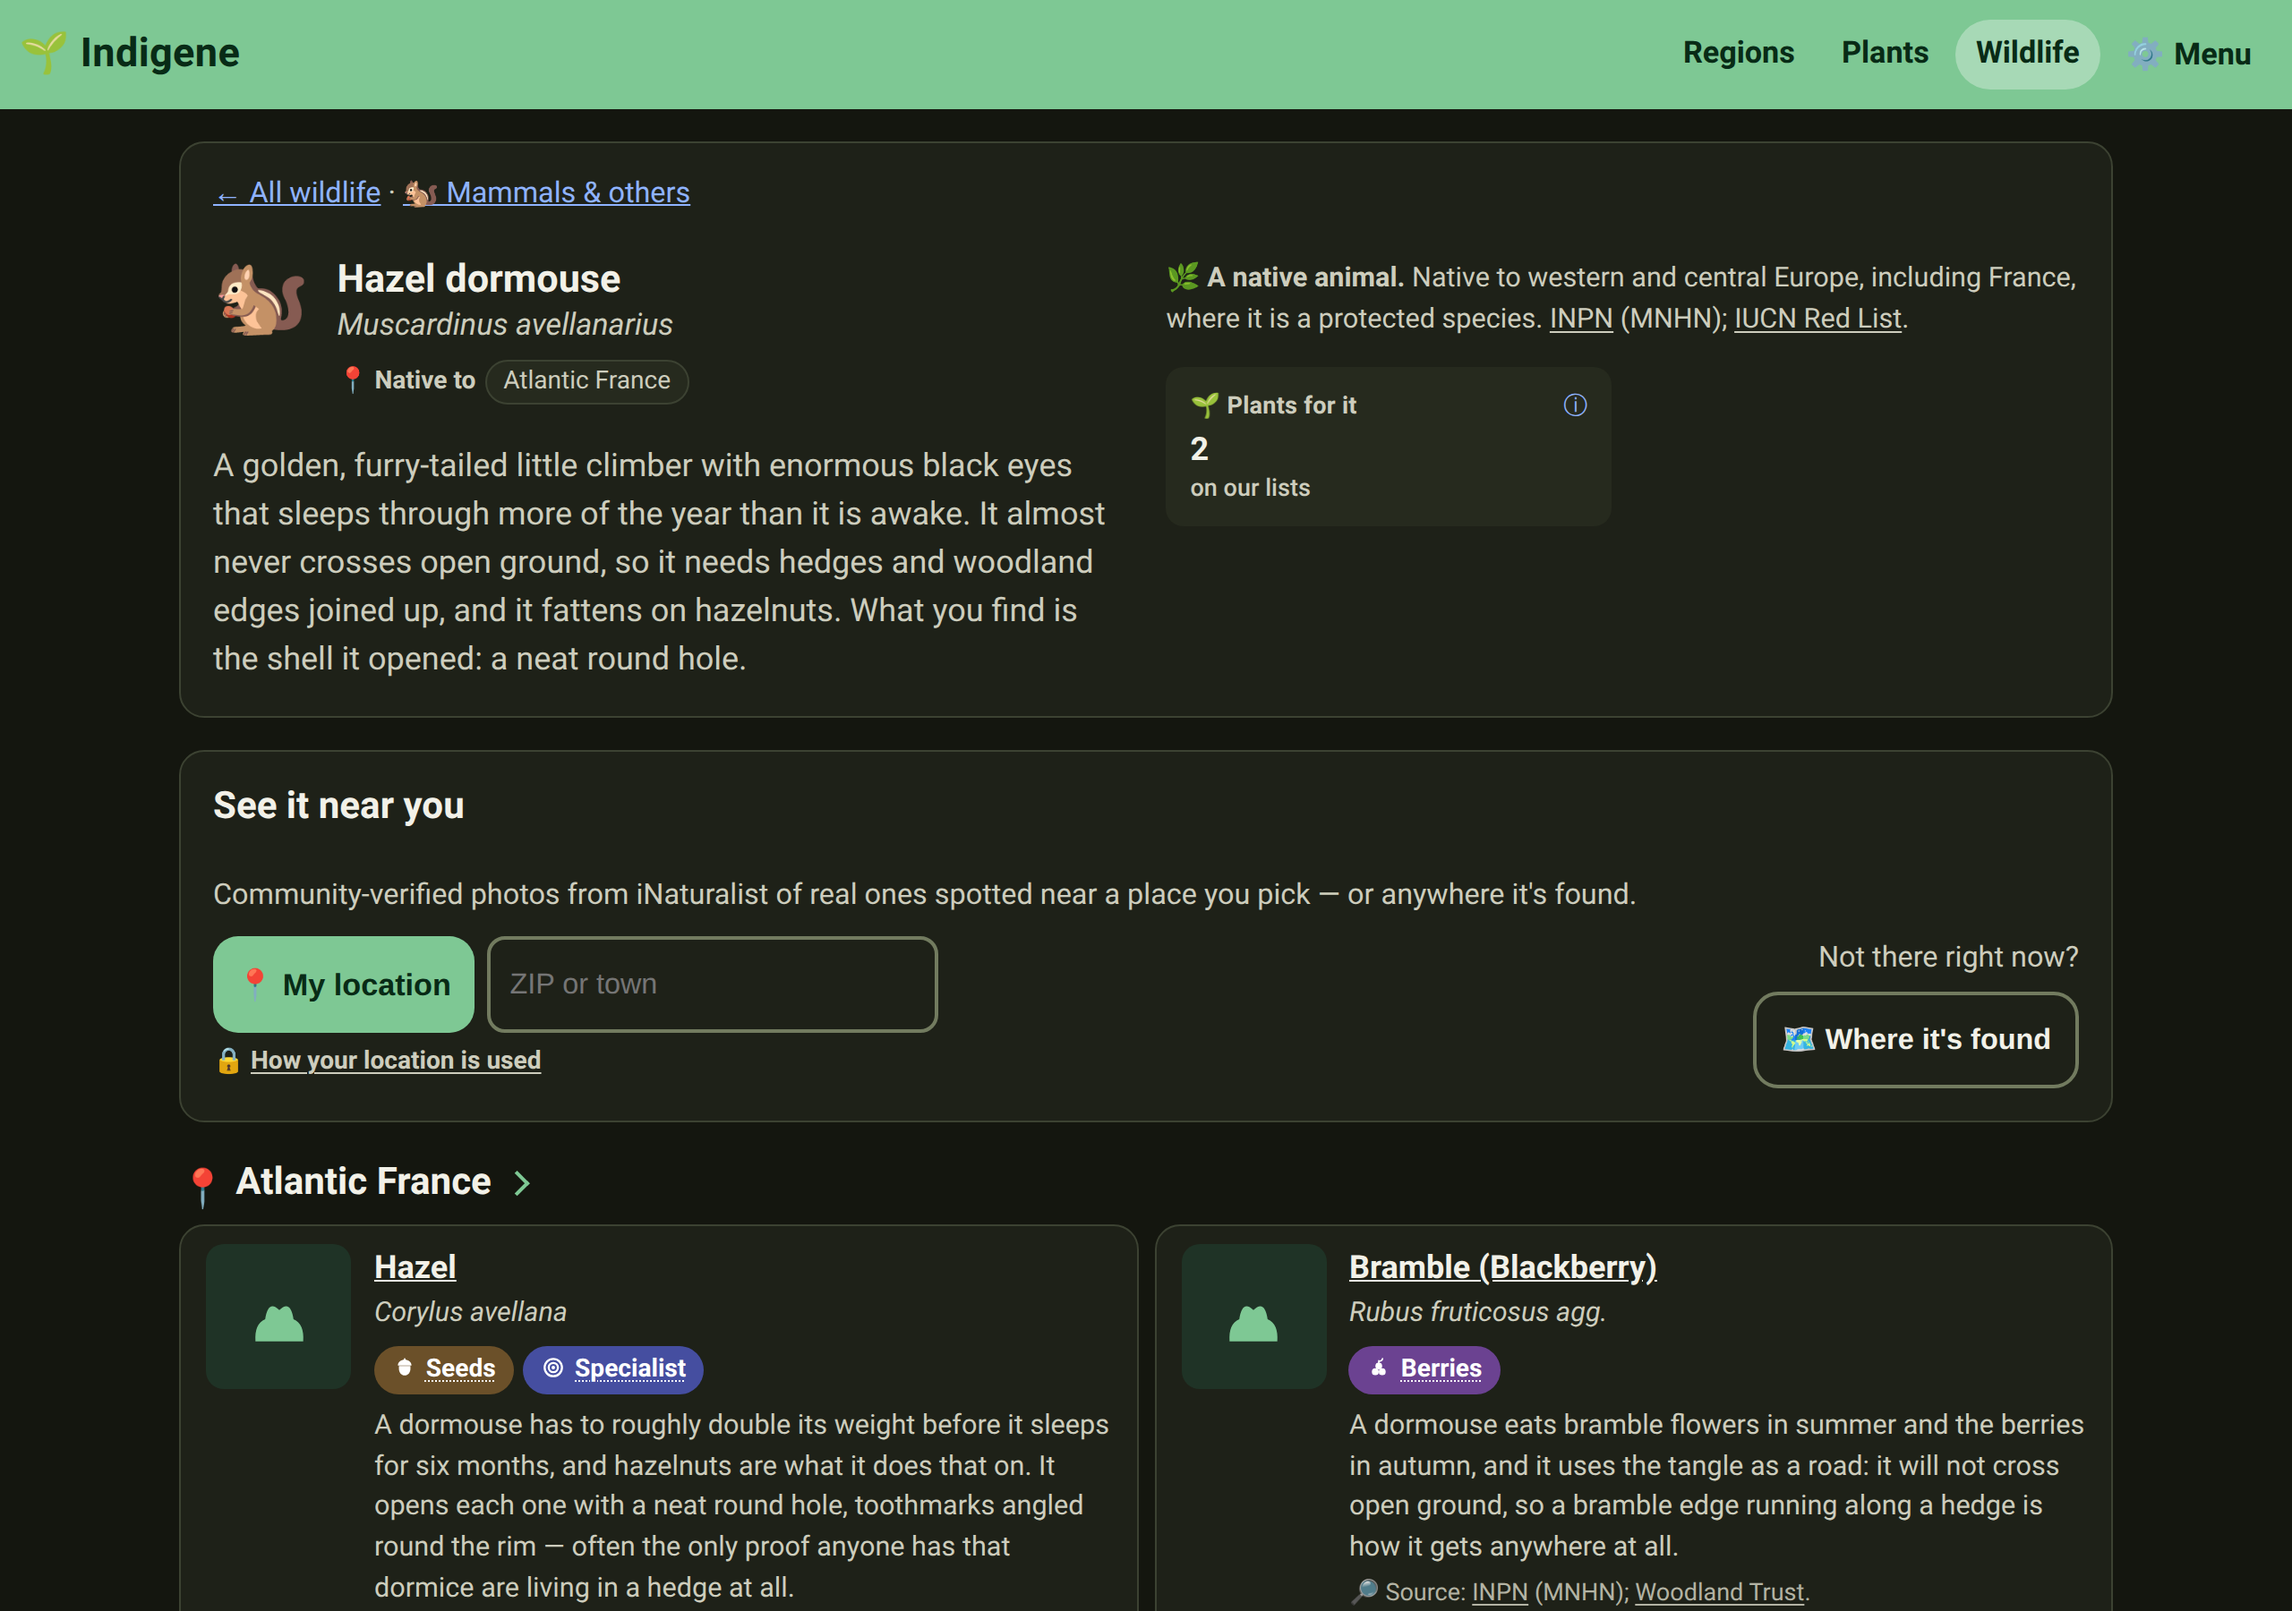
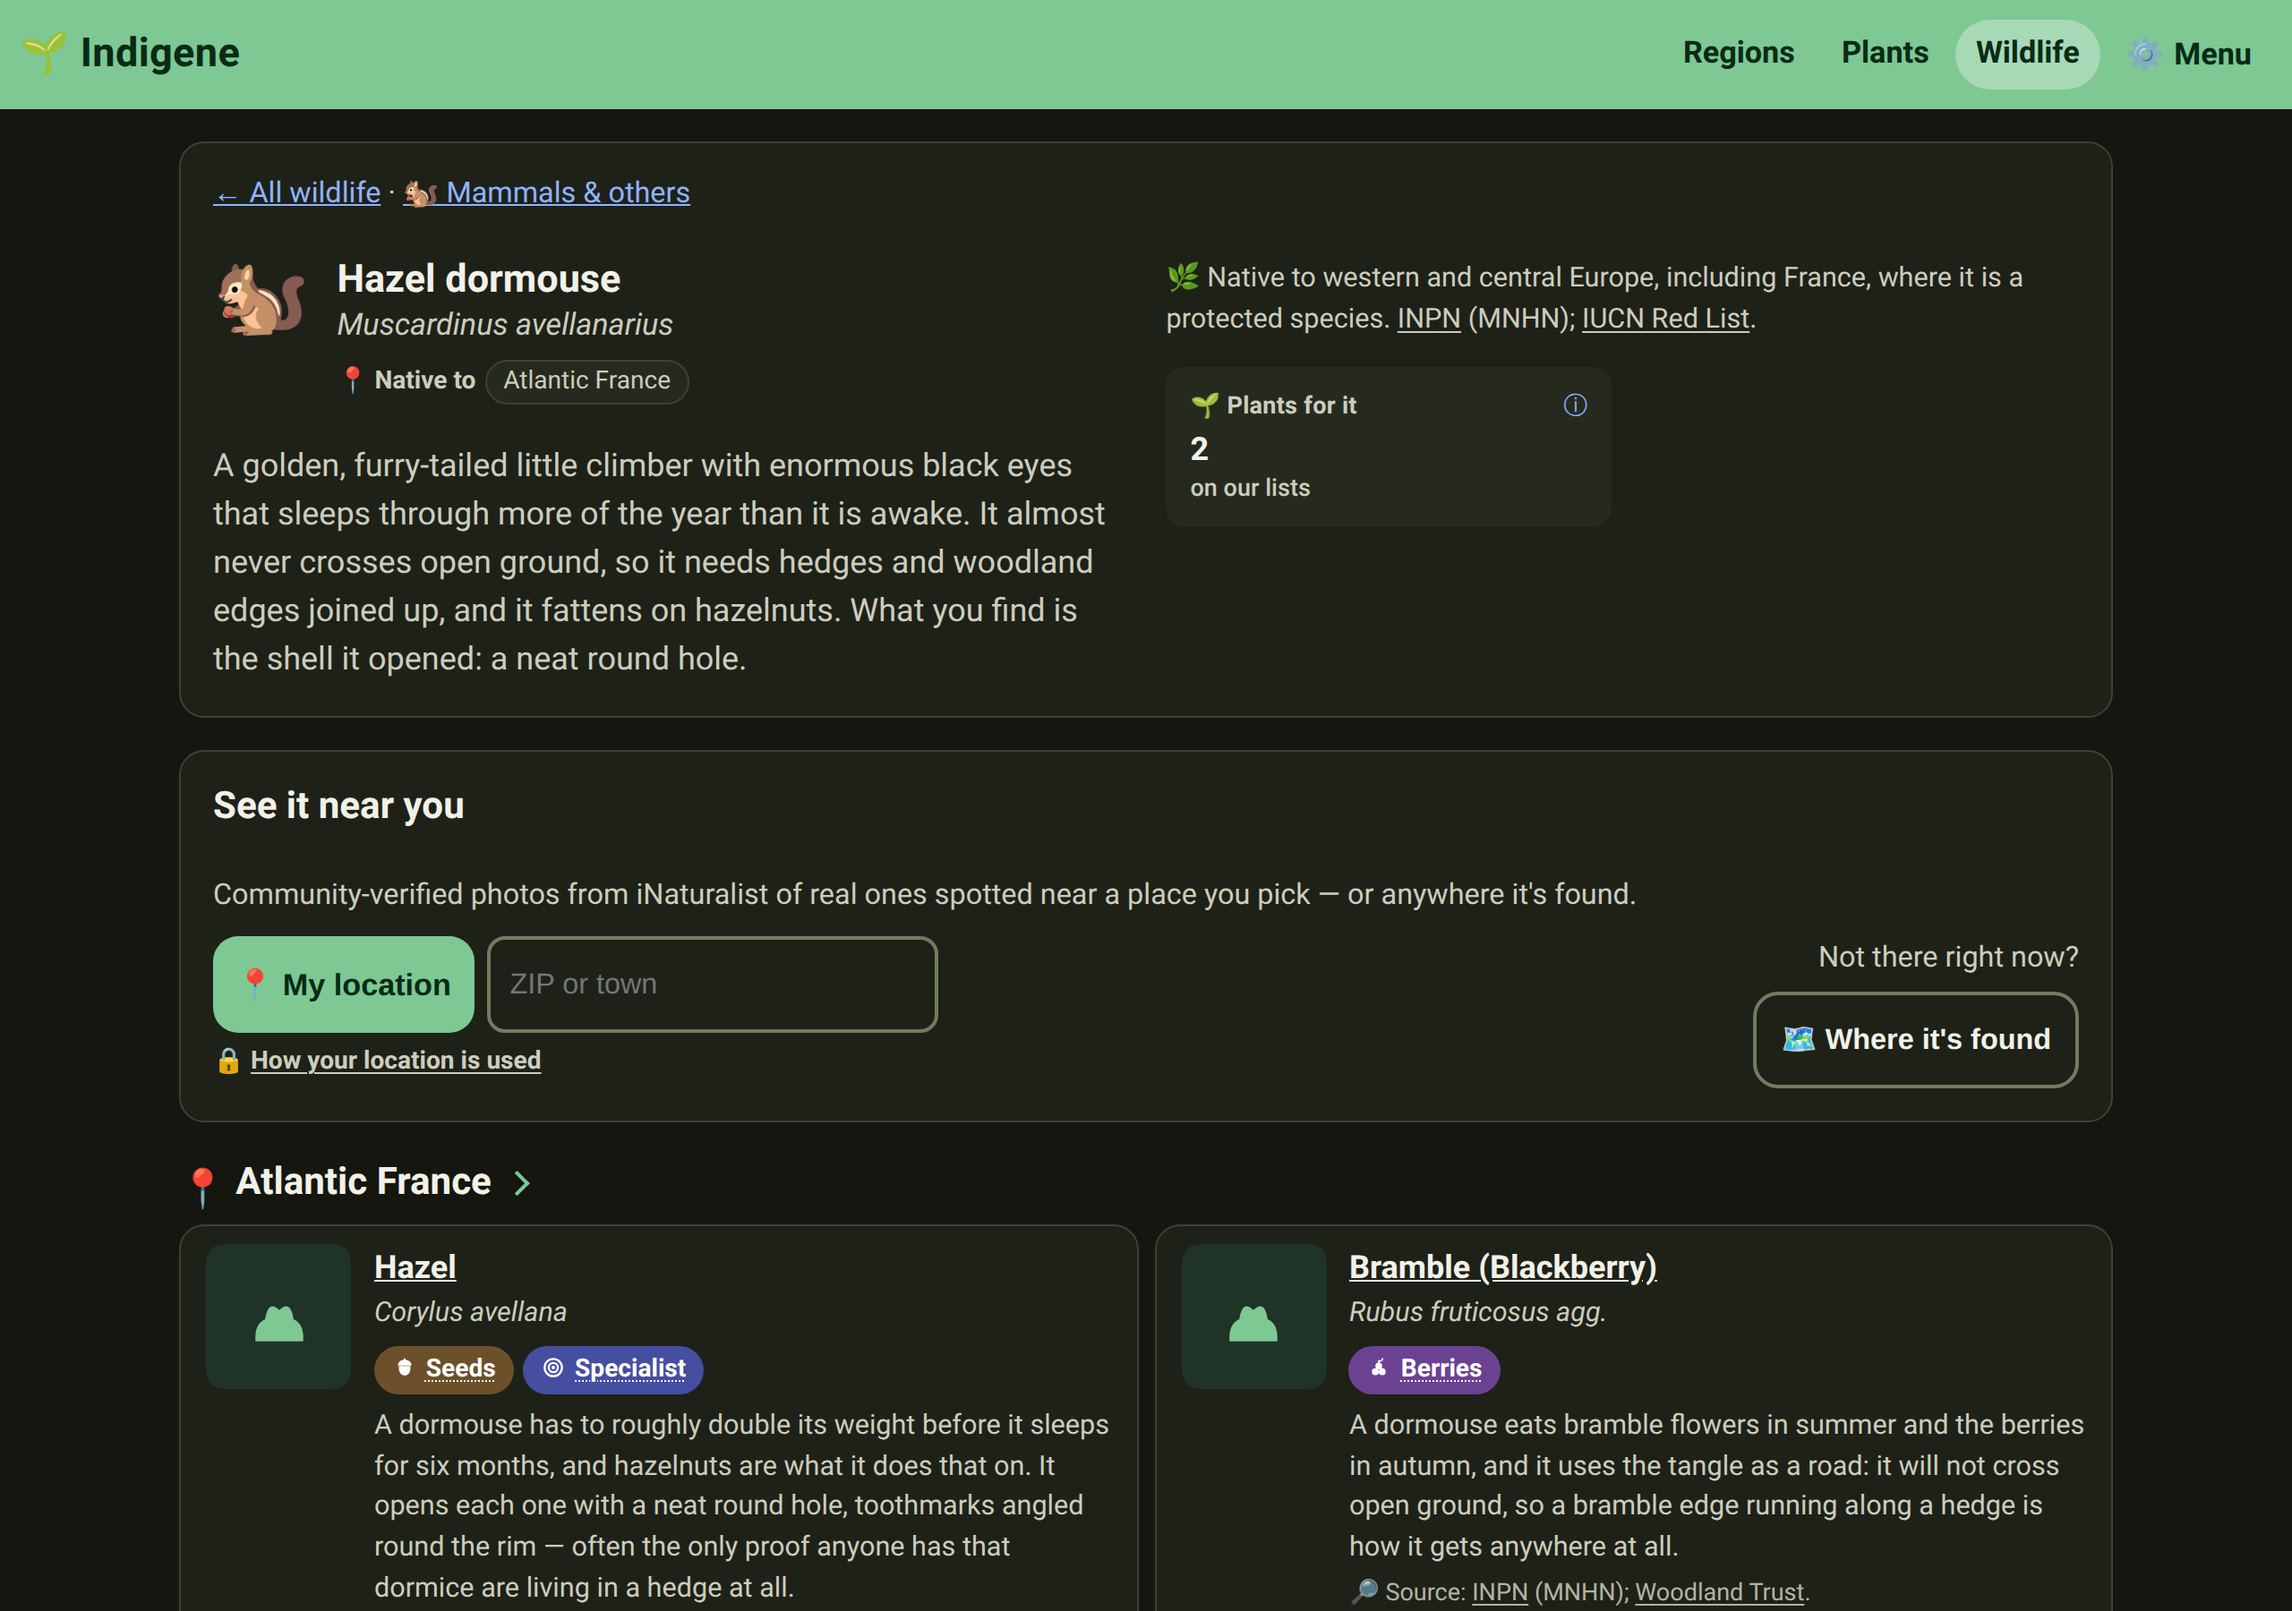
Drop "a native animal" — the pills opposite already said it
Every animal in the catalog is native (the index says so once, for all of
them), and the page names the regions it's native to in a row of pills
right across from this line. What isn't repeated anywhere is the rest of
the sentence: the range beyond our regions, and the authority behind it.
So the label goes and the sourced statement stays.

Claude-Session: https://claude.ai/code/session_01R2VcfAxqfXKMeK35Dgn1z4

Changed region(s): [[0.5, 0.1556, 0.9062, 0.2178]]

diff --git a/app/src/steps/wildlife.ts b/app/src/steps/wildlife.ts
@@ -558,11 +558,13 @@ export function renderWildlife(main: HTMLElement, param?: string): void {
         ]),
         el("div", { class: "plant-col" }, [
           el("div", { class: "plant-body plant-body-rest" }, [
-            // The native-status guarantee, sourced (authority names linked) — a native
-            // plant should be feeding a native animal, and we say where that comes from.
+            // Where it's native, and who says so (authority names linked). It
+            // used to open "A native animal." — which the 📍 pills opposite
+            // have already said, and the index says once for the whole
+            // catalog. What's left is the part that isn't repeated anywhere:
+            // the range beyond our regions, and its source.
             el("p", { class: "confidence wildlife-vouch" }, [
               el("span", { "aria-hidden": "true" }, "🌿 "),
-              el("strong", {}, t("wildlife.aNativeAnimal")),
               ...citation(w.nativeBasis),
             ]),
             speciesLink(w),

diff --git a/app/src/locales/fr.ts b/app/src/locales/fr.ts
@@ -1168,7 +1168,6 @@ export const fr: Dict = {
   "wildlife.regionPillTitle": "{region} — toute la faune que ses plantes indigènes font vivre",
   "wildlife.docTitle": "Les plantes indigènes qui font vivre {animal} — Indigene",
   "wildlife.allWildlife": "← Toute la faune",
-  "wildlife.aNativeAnimal": "Un animal indigène. ",
   "wildlife.ofThemHosts.one": ", dont {n} comme plante nourricière de ses chenilles — le lien le plus fort.",
   "wildlife.ofThemHosts.other": ", dont {n} comme plantes nourricières de ses chenilles — le lien le plus fort.",
   "wildlife.cantLiveWithout.one": "⭐ Il ne peut pas vivre sans cette plante. ",

diff --git a/app/src/locales/en.ts b/app/src/locales/en.ts
@@ -1156,7 +1156,6 @@ export const en = {
   "wildlife.regionPillTitle": "{region} — all the wildlife its natives support",
   "wildlife.docTitle": "Native plants that support {animal} — Indigene",
   "wildlife.allWildlife": "← All wildlife",
-  "wildlife.aNativeAnimal": "A native animal. ",
   "wildlife.ofThemHosts.one": ", {n} of them as a caterpillar host — the strongest tie.",
   "wildlife.ofThemHosts.other": ", {n} of them as caterpillar hosts — the strongest tie.",
   "wildlife.cantLiveWithout.one": "⭐ It can't live without this plant. ",

diff --git a/CHANGELOG.md b/CHANGELOG.md
@@ -48,6 +48,10 @@ subtitle on the What's new page.
   monarch](https://indigene.app/wildlife/monarch) shows how many of our natives
   feed it, how many raise its young, and how many it has no substitute for —
   the same tiles a plant's page has. Tap one for what it means.
+- **An animal's page no longer calls it "a native animal".** Every animal in
+  [Wildlife](https://indigene.app/wildlife) is native, and the page names the
+  regions right beside it. What's left is the part that isn't repeated: where
+  it's native in the wild, and who says so.
 - **"See it near you" is half as tall on a computer.** Asking where to look and
   offering to look somewhere else were stacked down the page; they now sit side
   by side. On a phone, nothing moves.
